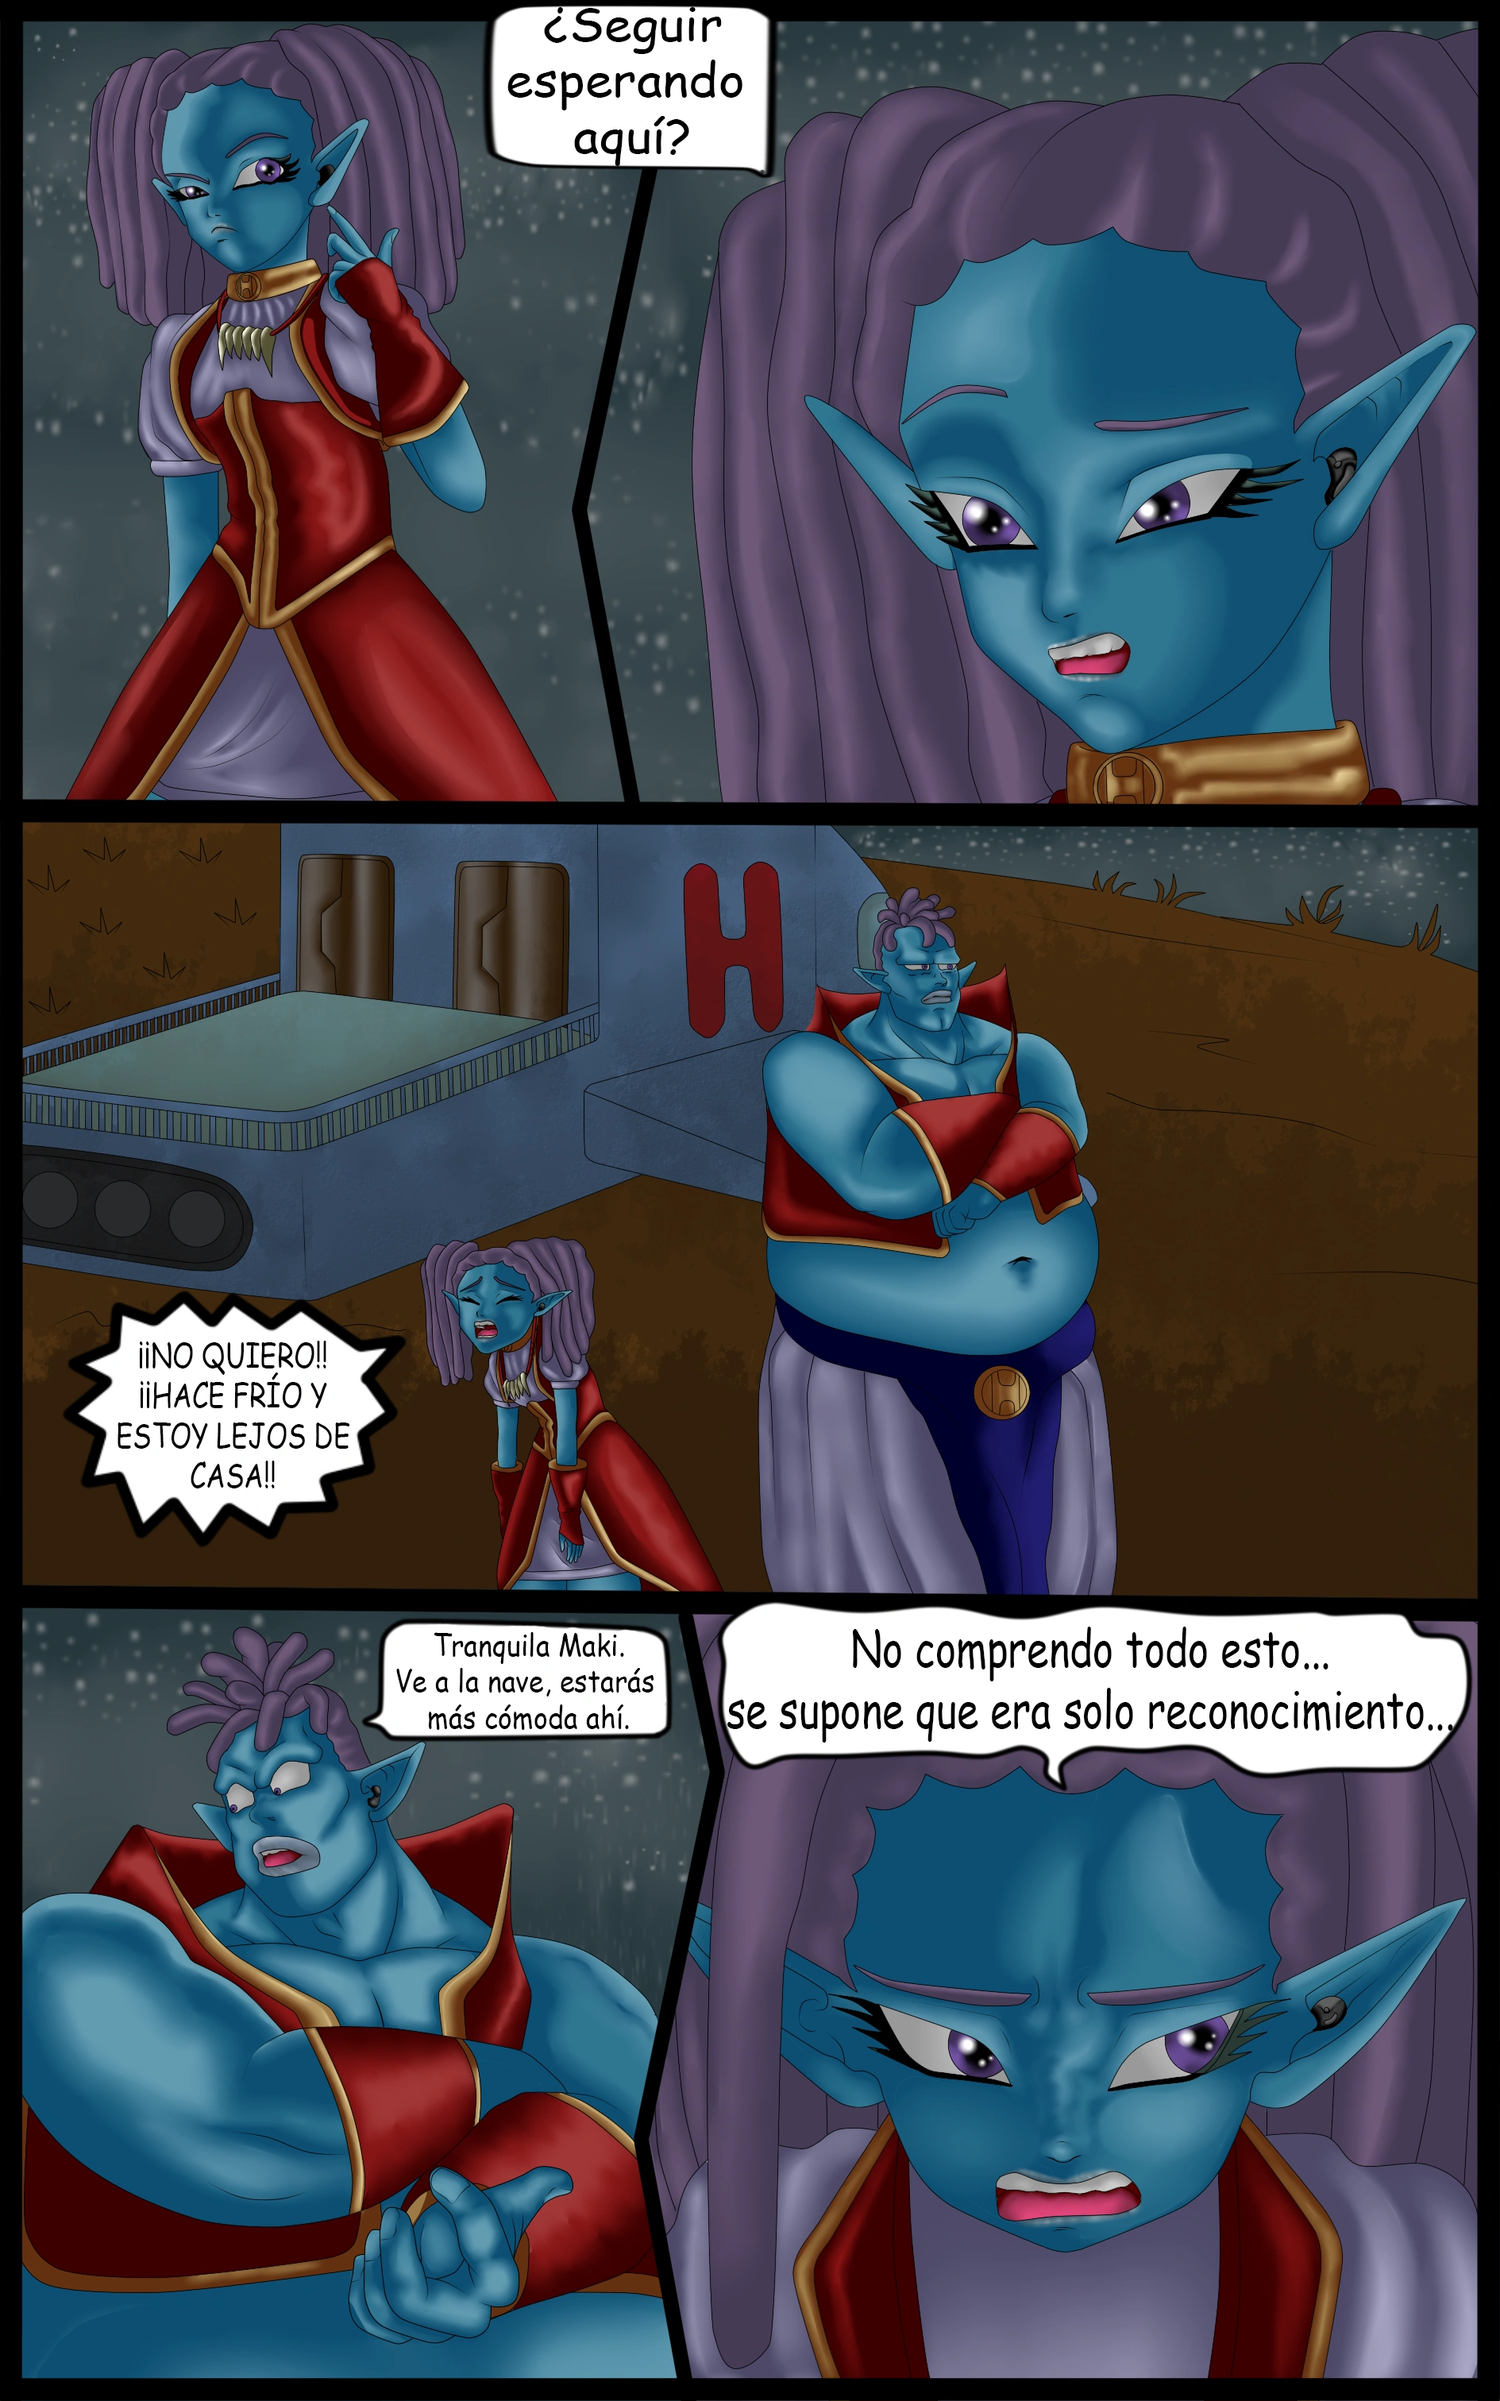
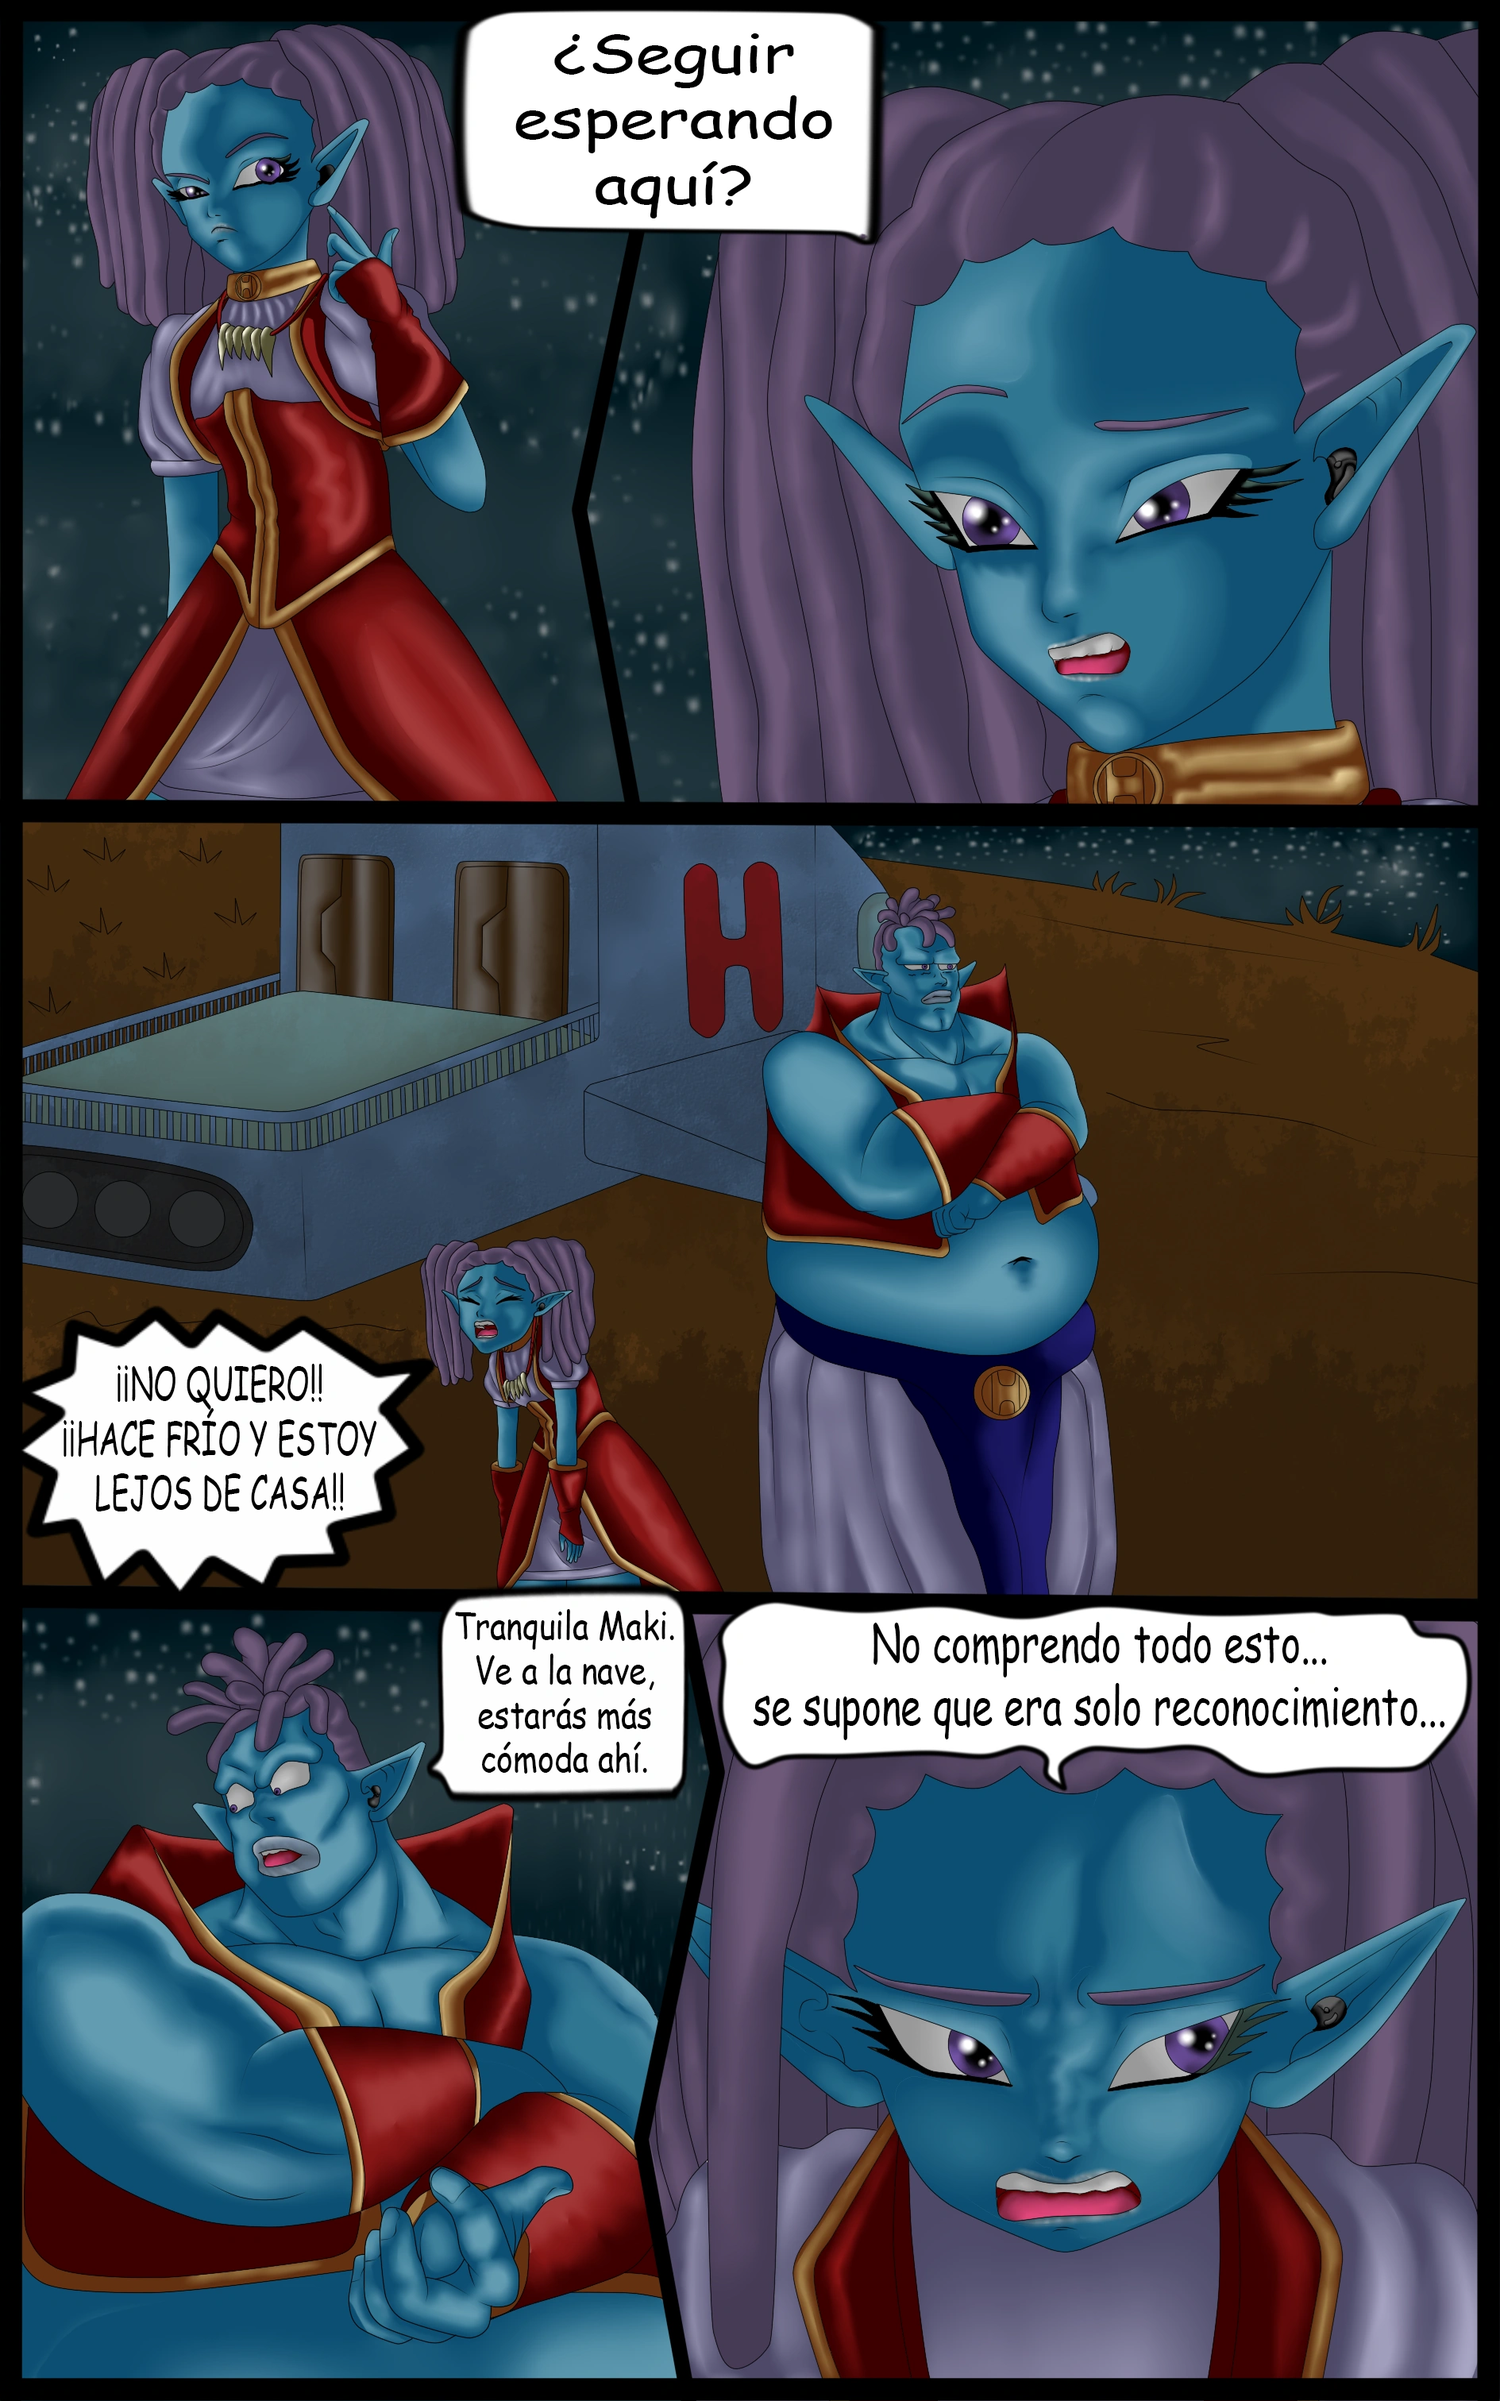
otvers-m

diff --git a/src/menu/pestanias/noticias.jsx b/src/menu/pestanias/noticias.jsx
@@ -48,7 +48,7 @@ const Noticias = () => {
       titular: 'Saiyagin Jean',
       subtitulo: 'Personaje de la marca «JEAN SAYAN PRIDE».',
       noticia:
-        'Se ha llegado a un acuerdo con la marca para incluir a «Jean» en otvers. De la raza Saiyan ambientado en planeta Saiyan en el año 3031, bajo el regente del universo Acit.',
+        'Se ha llegado a un acuerdo con la marca para incluir a «Jean» en otvers. De la raza «Sayan» ambientado en planeta Vegeta en el año 3031, bajo el regente del universo Acit.',
       image: jean,
       autorImg: pride,
       redes: [

diff --git a/src/menu/pestanias/noticias/not-8.jsx b/src/menu/pestanias/noticias/not-8.jsx
@@ -12,7 +12,7 @@ const Blog = () => {
 
   const subtitulo = `<b>Explica su autor:</b>`
 
-  const textoRaza = `Se sabe que no es un Androide hubicado luego de la saga de Moro, según nos lo describen, es realizado por el difunto Dr Gero. No se sabe más al respecto`
+  const textoRaza = `Se sabe que es un Androide hubicado luego de la saga de Moro, según nos lo describen, es realizado por el difunto Dr Gero. No se sabe más al respecto`
 
   const textoIdioma = `<b>Diseño realizado por OtBot.</b>`
 
